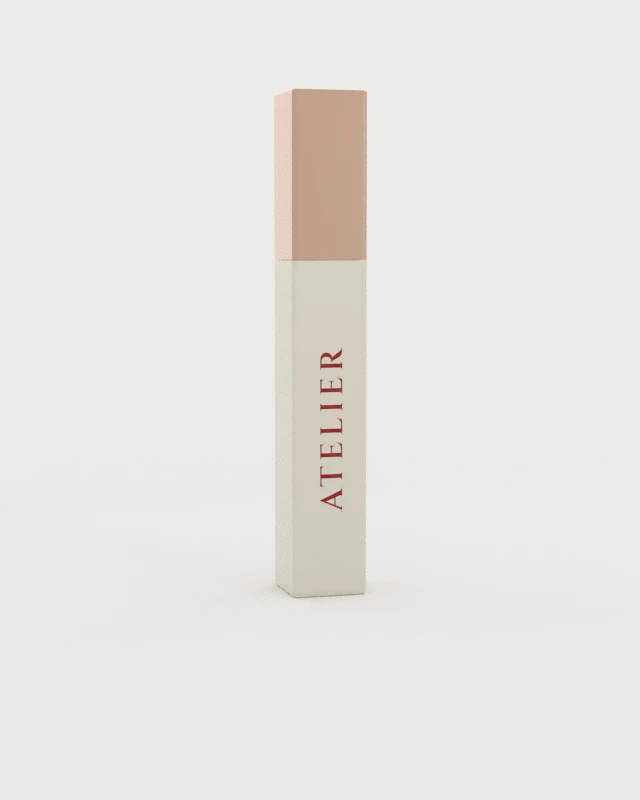
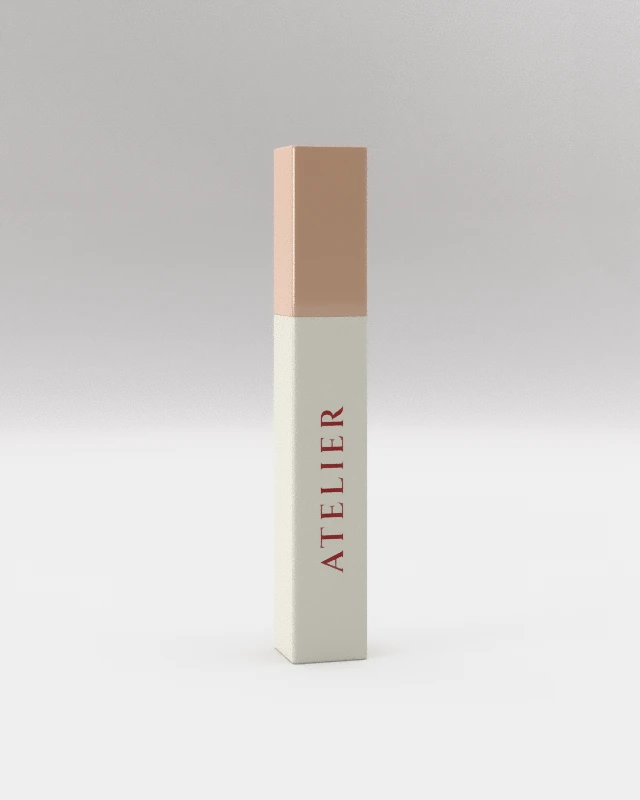
Archive: first 23 cards re-rendered with studio HDRI light

diff --git a/js/pages/gallery.js b/js/pages/gallery.js
@@ -60,7 +60,7 @@
               style: { '--tint': CL.render.tintOf(design, 0.8) },
               onclick: () => setOpen(!card.classList.contains('is-open')),
             },
-              CL.h('div.sc-tube', null, CL.h('img', { src: `assets/archive/${tplId}.webp?v=16`, alt: t('templates.' + tplId), loading: 'lazy', decoding: 'async' })),
+              CL.h('div.sc-tube', null, CL.h('img', { src: `assets/archive/${tplId}.webp?v=17`, alt: t('templates.' + tplId), loading: 'lazy', decoding: 'async' })),
               CL.h('div.sc-bar', null,
                 CL.h('div.sc-title', null,
                   CL.h('h4', { text: t('templates.' + tplId) })

diff --git a/index.html b/index.html
@@ -105,7 +105,7 @@
   <script src="js/pages/home.js?v=36"></script>
   <script src="js/pages/design.js?v=24"></script>
   <script src="js/pages/editor.js?v=78"></script>
-  <script src="js/pages/gallery.js?v=33"></script>
+  <script src="js/pages/gallery.js?v=34"></script>
   <script src="js/pages/my-designs.js?v=15"></script>
 
   <script src="js/app.js?v=17"></script>
